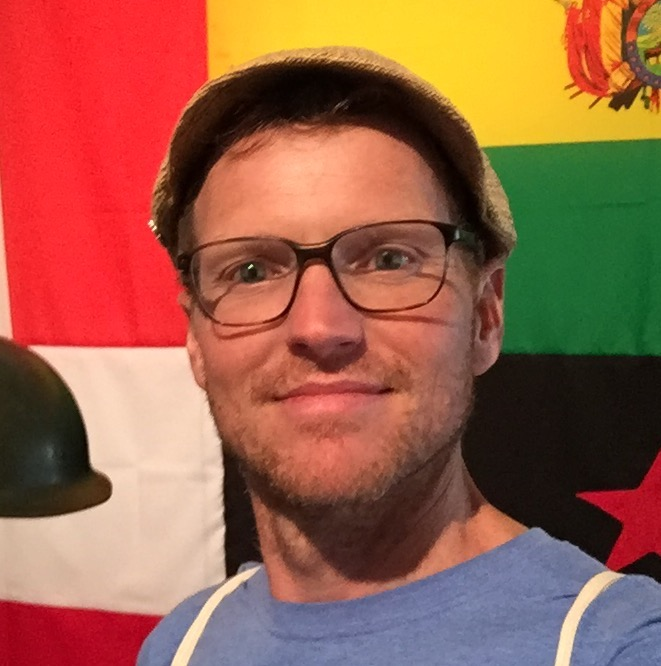
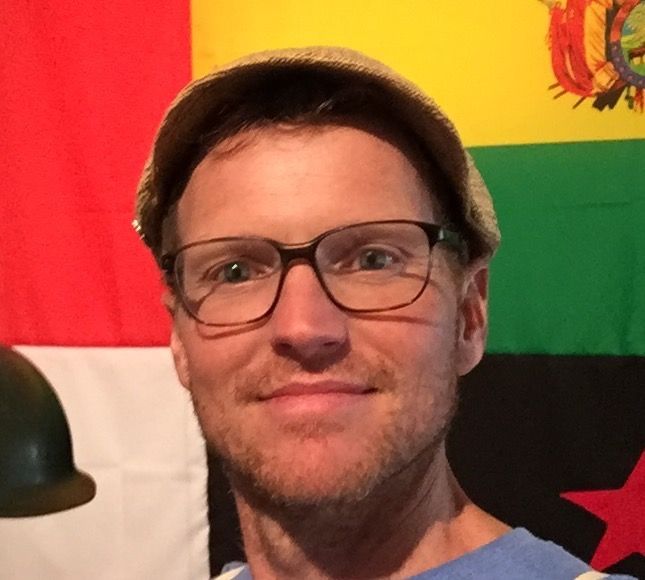
serve site without hugo example

diff --git a/public/post/writing-technical-content/index.html b/public/post/writing-technical-content/index.html
@@ -777,7 +777,7 @@ A Markdown aside is useful for displaying notices, hints, or definitions to your
   <div class="media author-card content-widget-hr">
     
       
-      <img class="portrait mr-3" src="/authors/admin/avatar_hudcffa238f1de5f9ea35c35fe489a9dc2_98218_250x250_fill_q90_lanczos_center.JPG" alt="Avatar">
+      <img class="portrait mr-3" src="/authors/admin/avatar_hudcffa238f1de5f9ea35c35fe489a9dc2_84366_250x250_fill_q90_lanczos_center.JPG" alt="Avatar">
     
 
     <div class="media-body">

diff --git a/public/post/2015-07-23-r-rmarkdown/index.html b/public/post/2015-07-23-r-rmarkdown/index.html
@@ -605,7 +605,7 @@ Figure 1: A fancy pie chart.
   <div class="media author-card content-widget-hr">
     
       
-      <img class="portrait mr-3" src="/authors/admin/avatar_hudcffa238f1de5f9ea35c35fe489a9dc2_98218_250x250_fill_q90_lanczos_center.JPG" alt="Avatar">
+      <img class="portrait mr-3" src="/authors/admin/avatar_hudcffa238f1de5f9ea35c35fe489a9dc2_84366_250x250_fill_q90_lanczos_center.JPG" alt="Avatar">
     
 
     <div class="media-body">

diff --git a/public/post/jupyter/index.html b/public/post/jupyter/index.html
@@ -621,7 +621,7 @@ date: 2019-09-01
   <div class="media author-card content-widget-hr">
     
       
-      <img class="portrait mr-3" src="/authors/admin/avatar_hudcffa238f1de5f9ea35c35fe489a9dc2_98218_250x250_fill_q90_lanczos_center.JPG" alt="Avatar">
+      <img class="portrait mr-3" src="/authors/admin/avatar_hudcffa238f1de5f9ea35c35fe489a9dc2_84366_250x250_fill_q90_lanczos_center.JPG" alt="Avatar">
     
 
     <div class="media-body">

diff --git a/public/post/getting-started/index.html b/public/post/getting-started/index.html
@@ -685,7 +685,7 @@
   <div class="media author-card content-widget-hr">
     
       
-      <img class="portrait mr-3" src="/authors/admin/avatar_hudcffa238f1de5f9ea35c35fe489a9dc2_98218_250x250_fill_q90_lanczos_center.JPG" alt="Avatar">
+      <img class="portrait mr-3" src="/authors/admin/avatar_hudcffa238f1de5f9ea35c35fe489a9dc2_84366_250x250_fill_q90_lanczos_center.JPG" alt="Avatar">
     
 
     <div class="media-body">

diff --git a/public/project/decision-analysis/index.html b/public/project/decision-analysis/index.html
@@ -616,7 +616,7 @@
   <div class="media author-card content-widget-hr">
     
       
-      <img class="portrait mr-3" src="/authors/admin/avatar_hudcffa238f1de5f9ea35c35fe489a9dc2_98218_250x250_fill_q90_lanczos_center.JPG" alt="Avatar">
+      <img class="portrait mr-3" src="/authors/admin/avatar_hudcffa238f1de5f9ea35c35fe489a9dc2_84366_250x250_fill_q90_lanczos_center.JPG" alt="Avatar">
     
 
     <div class="media-body">

diff --git a/public/project/external-project/index.html b/public/project/external-project/index.html
@@ -598,7 +598,7 @@
   <div class="media author-card content-widget-hr">
     
       
-      <img class="portrait mr-3" src="/authors/admin/avatar_hudcffa238f1de5f9ea35c35fe489a9dc2_98218_250x250_fill_q90_lanczos_center.JPG" alt="Avatar">
+      <img class="portrait mr-3" src="/authors/admin/avatar_hudcffa238f1de5f9ea35c35fe489a9dc2_84366_250x250_fill_q90_lanczos_center.JPG" alt="Avatar">
     
 
     <div class="media-body">

diff --git a/public/publication/17-journal-huec/index.html b/public/publication/17-journal-huec/index.html
@@ -678,7 +678,7 @@
   <div class="media author-card content-widget-hr">
     
       
-      <img class="portrait mr-3" src="/authors/admin/avatar_hudcffa238f1de5f9ea35c35fe489a9dc2_98218_250x250_fill_q90_lanczos_center.JPG" alt="Avatar">
+      <img class="portrait mr-3" src="/authors/admin/avatar_hudcffa238f1de5f9ea35c35fe489a9dc2_84366_250x250_fill_q90_lanczos_center.JPG" alt="Avatar">
     
 
     <div class="media-body">

diff --git a/public/publication/18-conference-flare/index.html b/public/publication/18-conference-flare/index.html
@@ -664,7 +664,7 @@
   <div class="media author-card content-widget-hr">
     
       
-      <img class="portrait mr-3" src="/authors/admin/avatar_hudcffa238f1de5f9ea35c35fe489a9dc2_98218_250x250_fill_q90_lanczos_center.JPG" alt="Avatar">
+      <img class="portrait mr-3" src="/authors/admin/avatar_hudcffa238f1de5f9ea35c35fe489a9dc2_84366_250x250_fill_q90_lanczos_center.JPG" alt="Avatar">
     
 
     <div class="media-body">

diff --git a/public/publication/18-journal-earth-future/index.html b/public/publication/18-journal-earth-future/index.html
@@ -679,7 +679,7 @@
   <div class="media author-card content-widget-hr">
     
       
-      <img class="portrait mr-3" src="/authors/admin/avatar_hudcffa238f1de5f9ea35c35fe489a9dc2_98218_250x250_fill_q90_lanczos_center.JPG" alt="Avatar">
+      <img class="portrait mr-3" src="/authors/admin/avatar_hudcffa238f1de5f9ea35c35fe489a9dc2_84366_250x250_fill_q90_lanczos_center.JPG" alt="Avatar">
     
 
     <div class="media-body">

diff --git a/public/authors/admin/index.html b/public/authors/admin/index.html
@@ -321,7 +321,7 @@
 
       
       
-      <img class="portrait" src="/authors/admin/avatar_hudcffa238f1de5f9ea35c35fe489a9dc2_98218_250x250_fill_q90_lanczos_center.JPG" alt="Avatar">
+      <img class="portrait" src="/authors/admin/avatar_hudcffa238f1de5f9ea35c35fe489a9dc2_84366_250x250_fill_q90_lanczos_center.JPG" alt="Avatar">
       
 
       <div class="portrait-title">

diff --git a/public/index.html b/public/index.html
@@ -382,7 +382,7 @@
 
       
       
-      <img class="portrait" src="/authors/admin/avatar_hudcffa238f1de5f9ea35c35fe489a9dc2_98218_250x250_fill_q90_lanczos_center.JPG" alt="Avatar">
+      <img class="portrait" src="/authors/admin/avatar_hudcffa238f1de5f9ea35c35fe489a9dc2_84366_250x250_fill_q90_lanczos_center.JPG" alt="Avatar">
       
 
       <div class="portrait-title">
